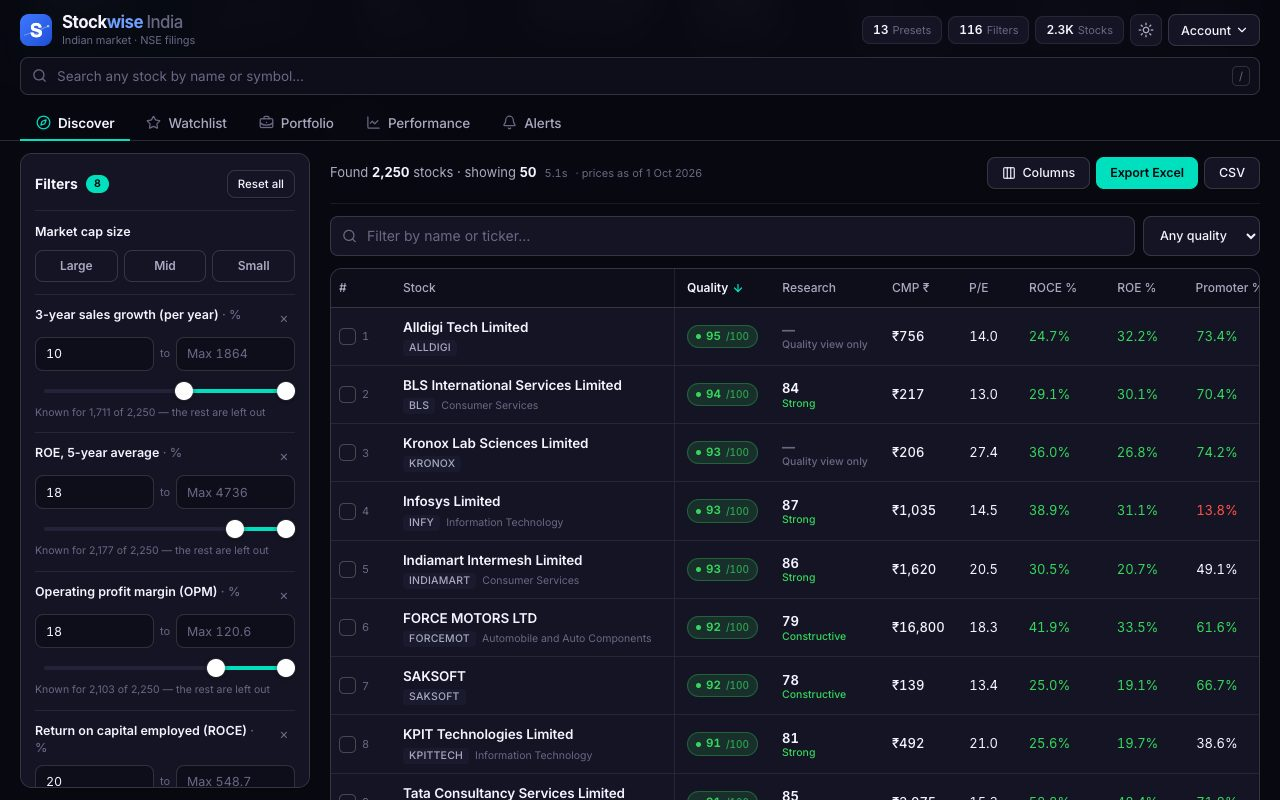
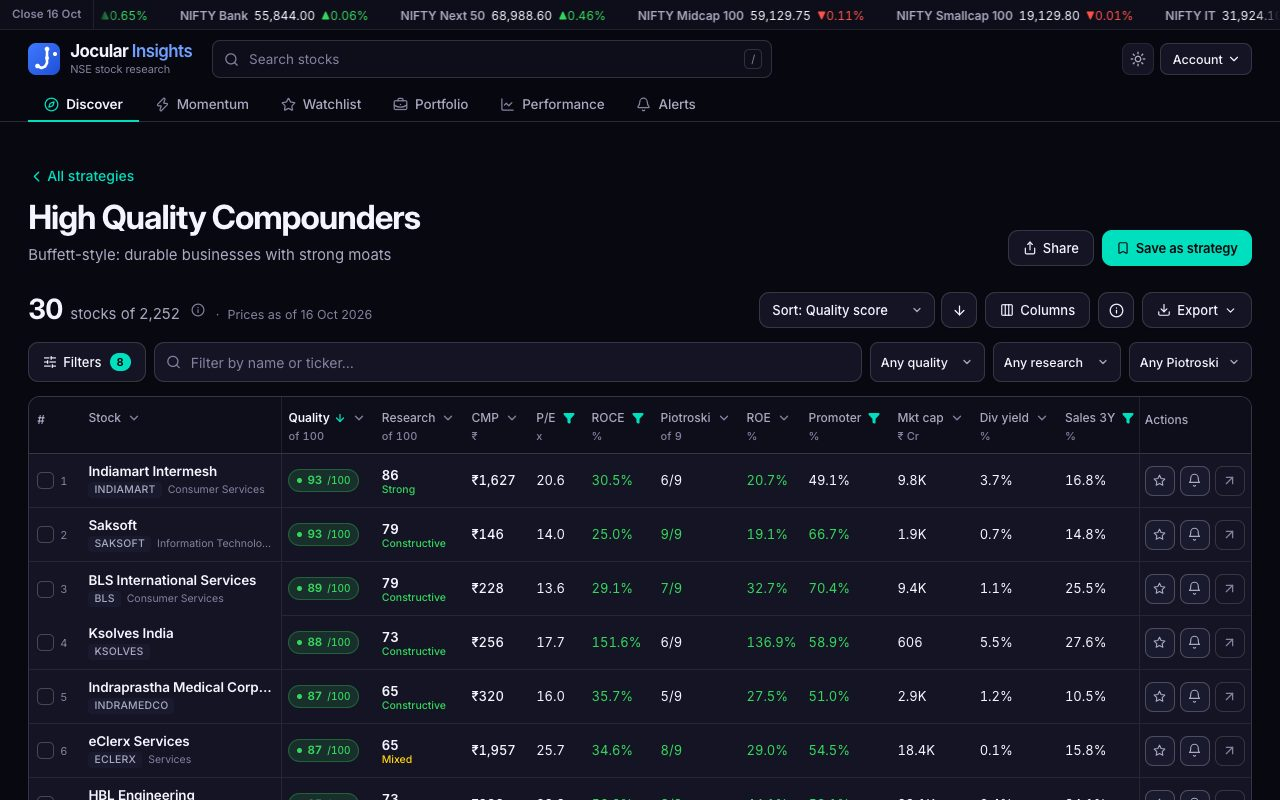
Front page: a fresh product shot with the new name
public/screens/discover.jpg showed the old Stockwise India header and
layout, prices as of 1 Oct; now the High Quality Compounders strategy in
today's layout under Jocular Insights, prices as of 16 Oct, taken with
the run skill's driver. Its descriptions say what it shows.

diff --git a/src/CinematicStory.jsx b/src/CinematicStory.jsx
@@ -105,7 +105,7 @@ function ScreenerVisual({ stats }) {
 function ProductVisual({ final = false }) {
   return <div className={"story-visual story-product-shot" + (final ? " is-final" : "")}>
     <div className="story-shot-bar"><span><i/><i/><i/></span><b>STOCKWISE INDIA <small>· DISCOVER</small></b><span>PRODUCT SCREEN</span></div>
-    <img src="/screens/discover.jpg" alt="Jocular Insights Discover interface with filters, strategy results, company quality scores and financial metrics; prices as of 1 October 2026." />
+    <img src="/screens/discover.jpg" alt="Jocular Insights showing the High Quality Compounders strategy: 30 companies with their quality and research scores, P/E, return on capital and promoter holding; prices as of 16 October 2026." />
     {final && <div className="story-final-caption"><span>STOCKWISE INDIA</span><strong>Research, in context.</strong><small>Company results · filters · scores · financial metrics</small></div>}
   </div>;
 }

diff --git a/src/Landing.jsx b/src/Landing.jsx
@@ -96,7 +96,7 @@ export default function Landing({ onAuthed, notice }) {
             </div>
             <img
               src="/screens/discover.jpg" width="1280" height="800" loading="lazy"
-              alt="The Discover screen: a strategy's results, each company with its quality score, research score, price, returns on capital and price levels"
+              alt="The Discover screen: a strategy's results, each company with its quality and research scores, price, P/E and returns on capital"
               style={{ display: "block", width: "100%", height: "auto" }}
             />
           </div>
